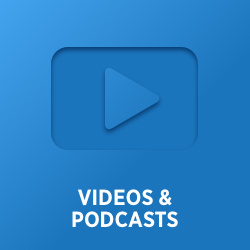
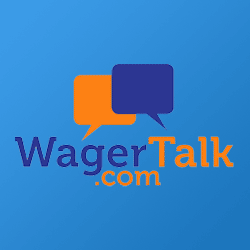
Implements Wagertalk UI changes.

Changed region(s): [[0.056, 0.168, 0.952, 0.924]]

diff --git a/src/js/pages/Cubemain.js b/src/js/pages/Cubemain.js
@@ -42,7 +42,7 @@ export default class Cubemain extends React.Component {
 						<td><div align="center"><a href="/#/scores-lines"><img src="/images/nav_tiles/tile03.png" width="100%"/></a></div></td>
 					</tr>
 					<tr>
-						<td><div align="center"><a href="/#/videos-podcasts"><img src="/images/nav_tiles/tile04.png" width="100%"/></a></div></td>
+						<td><div align="center"><a href="/#/wagertalk"><img src="/images/nav_tiles/tile04.png" width="100%"/></a></div></td>
 						<td><div align="center"><a href="/#/line-moves"><img src="/images/nav_tiles/tile05.png" width="100%"/></a></div></td>
 						{/*<td><div align="center"><a href="/#/trends-matchups"><img src="/images/nav_tiles/tile06.png" width="100%"/></a></div></td>*/}
                         <td><div align="center"><a href="http://cube.statfox.com"><img src="/images/nav_tiles/tile06.png" width="100%"/></a></div></td>
@@ -51,7 +51,7 @@ export default class Cubemain extends React.Component {
 					</tr>
 					<tr>
 						<td><div align="center"><a href="/#/steam-alerts"><img src="/images/nav_tiles/tile07.png" width="100%"/></a></div></td>
-						<td><div align="center"><a href="/#/sports-pages"><img src="/images/nav_tiles/tile08.png" width="100%"/></a></div></td>
+						<td><div align="center"><a href="/#/videos-podcastsq"><img src="/images/nav_tiles/tile08.png" width="100%"/></a></div></td>
 						<td><div align="center"><a href="/#/betting-tools"><img src="/images/nav_tiles/tile09.png" width="100%"/></a></div></td>
 					</tr>
 					</tbody>

diff --git a/src/js/client.js b/src/js/client.js
@@ -13,7 +13,7 @@ import VideosPodcasts from "./pages/VideosPodcasts";
 import LineMoves from "./pages/LineMoves";
 import TrendsMatchups from "./pages/TrendsMatchups";
 import SteamAlerts from "./pages/SteamAlerts";
-import SportsPages from "./pages/SportsPages";
+import Wagertalk from "./pages/Wagertalk";
 import BettingTools from "./pages/BettingTools";
 import EcapperPicks from "./pages/EcapperPicks";
 import PickForSale from "./pages/PickForSale";
@@ -80,7 +80,7 @@ ReactDOM.render(
 			<Route path="line-moves" name="line-moves" component={LineMoves} />
 			<Route path="trends-matchups" name="trends-matchups" component={TrendsMatchups} />
 			<Route path="steam-alerts" name="steam-alerts" component={SteamAlerts} />
-			<Route path="sports-pages" name="sports-pages" component={SportsPages} />
+			<Route path="wagertalk" name="wagertalk" component={Wagertalk} />
 			<Route path="betting-tools" name="betting-tools" component={BettingTools} />
 			<Route path="privacy-policy" name="privacy-policy" component={PrivacyPolicy} />
 			<Route path="purchases" name="purchases" component={Purchases} />

diff --git a/src/js/components/Header.js b/src/js/components/Header.js
@@ -27,7 +27,7 @@ export default class Header extends React.Component {
                 ()=>{this.props.router.push('expert-picks')},
                 ()=>{this.props.router.push('publications')},
                 ()=>{this.props.router.push('scores-lines')},
-                ()=>{this.props.router.push('videos-podcasts')},
+                ()=>{this.props.router.push('wagertalk')},
                 ()=>{this.props.router.push('betting-tools')},
                 ()=>{this.props.router.push('steam-alerts')},
             ]

diff --git a/src/js/pages/Wagertalk.js b/src/js/pages/Wagertalk.js
@@ -1,0 +1,17 @@
+/**
+ * Created by me on 1/31/17.
+ */
+
+import React from "react";
+
+import Iframe from "react-iframe";
+
+export default class Wagertalk extends React.Component {
+	render() {
+		return (
+			<div>
+				<Iframe url="https://www.wagertalk.com"  width="100%"/>
+			</div>
+		);
+	}
+}
